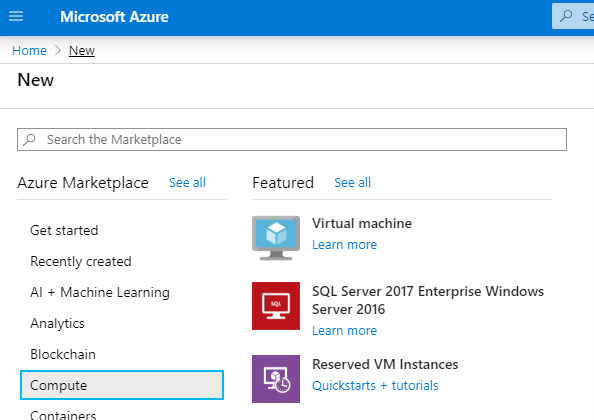
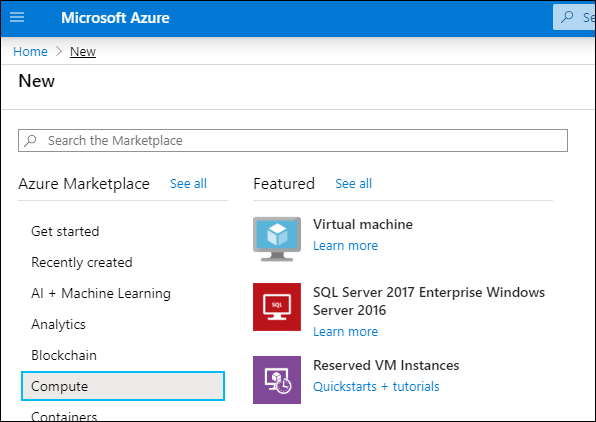
picture-outline change

diff --git a/self-deploy-azure-ubuntu-vm.md b/self-deploy-azure-ubuntu-vm.md
@@ -16,7 +16,7 @@ For installing and running the Bold BI server on a Microsoft Azure virtual machi
 
 * Click on `Create a Resource`.
 
-    ![Create](images/self-vm-Create.png)
+    ![Create](images/azure-ubuntu-vm-create.png)
 
 * Under `Azure Market place`, select `Compute` option and click on `See all` featured.
 
@@ -114,7 +114,7 @@ This section provides instructions on how to install and run the Bold BI server 
  - Sign into the [Azure Portal](https://portal.azure.com/).
  - Click on `Create a Resource`.
 
-    ![Create Resource](images/self-vm-Create.png)
+    ![Create Resource](images/azure-ubuntu-vm-create.png)
  - Click on `virtual machine`.
 
     ![virtual machine](images/azure-ubuntu-vm.png)
